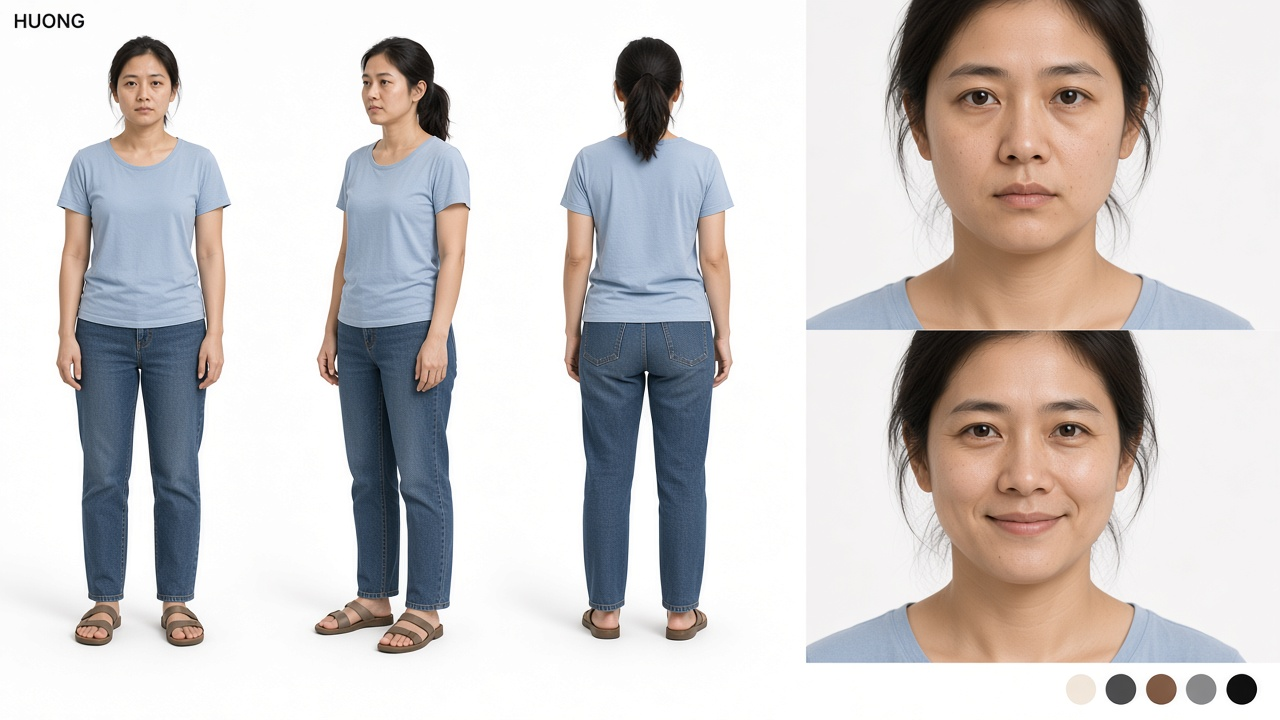
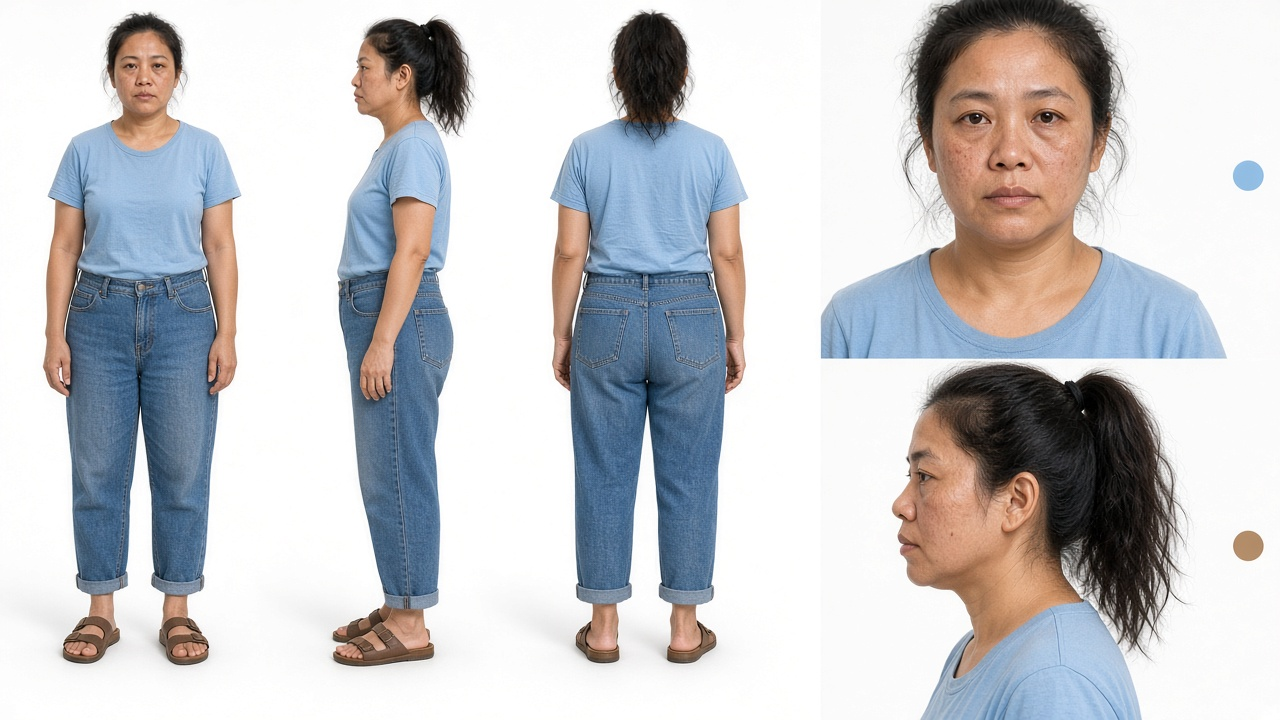
Khoá lại mặt Hà, Linh, Hương: ba khuôn khác xương và tóc
Ba phụ nữ Kinh tuổi 33–34 đang dùng chung một mặt catalog. Sheet mới tách dài hẹp / rộng kính mái / tròn đuôi ngựa.

diff --git a/character-sheet/character-sheet.md b/character-sheet/character-sheet.md
@@ -159,7 +159,7 @@ Trang nhân vật phụ — đủ tầng 2, tầng 3, tầng 4: [`nhan-vat-phu.m
 
 ## Nhân vật phụ – tạo hình
 
-Cùng layout với Khang: studio trắng, 3 góc + close-up, da thật, nét Kinh. Không cần đẹp như dàn chính – cần **đúng nghề, đúng tuổi**.
+Cùng layout với Khang: studio trắng, 3 góc + close-up, da thật, nét Kinh. Không cần đẹp như dàn chính – cần **đúng nghề, đúng tuổi**. Hà ≠ Linh ≠ Hương: mặt dài / mặt rộng kính mái / mặt tròn đuôi ngựa.
 
 ### 9. VŨ THANH HÀ – Nhà báo (nạn nhân)
 
@@ -168,8 +168,8 @@ Cùng layout với Khang: studio trắng, 3 góc + close-up, da thật, nét Kin
 | | |
 |---|---|
 | **Tuổi / Chiều cao** | 34 / 1m68 |
-| **Gương mặt** | Thanh, mắt thức đêm, môi mỏng |
-| **Tóc** | Đen, búi thấp lúc làm việc, xoã khi teaser |
+| **Gương mặt** | Dài hẹp, gò má cao, cằm nhọn, mắt sâu mí sụp. **Không** dùng chung khuôn với Linh / Hương |
+| **Tóc** | Đen, búi thấp, ngôi giữa — không mái, không đuôi ngựa |
 | **Trang phục** | Blazer xám nhàu, áo thun trắng, túi đeo chéo, giày bệt |
 | **Da** | Sáng hồng mệt, quầng mắt thật, không che |
 | **Bảng màu** | Xám – Trắng – Đen |
@@ -217,7 +217,7 @@ Cùng layout với Khang: studio trắng, 3 góc + close-up, da thật, nét Kin
 | | |
 |---|---|
 | **Tuổi / Chiều cao** | 33 / 1m68 |
-| **Gương mặt** | Kính gọng đen, mắt tránh nhìn |
+| **Gương mặt** | Mặt ngắn rộng, má đầy, kính gọng đen dày, mái thưa, nốt ruồi góc miệng trái. **Không** dùng chung khuôn với Hà / Hương |
 | **Trang phục** | Cardigan xám, sơ mi, thẻ toà soạn |
 | **Da** | Sáng, hơi khô vì đèn tuýp, cushion mỏng |
 | **Bảng màu** | Xám – Đen – Trắng |
@@ -229,7 +229,7 @@ Cùng layout với Khang: studio trắng, 3 góc + close-up, da thật, nét Kin
 | | |
 |---|---|
 | **Tuổi / Chiều cao** | 34 / 1m62 |
-| **Gương mặt** | Mệt, mắt thâm, đẹp vì thật |
+| **Gương mặt** | Hộp sọ tròn, trán rộng, mí sưng, đuôi ngựa cao rối. **Không** dùng chung khuôn với Hà / Linh |
 | **Trang phục** | Áo thun nhàu, quần jean, dép |
 | **Da** | Hồng mệt, không trang điểm |
 | **Bảng màu** | Xanh nhạt – Be |
